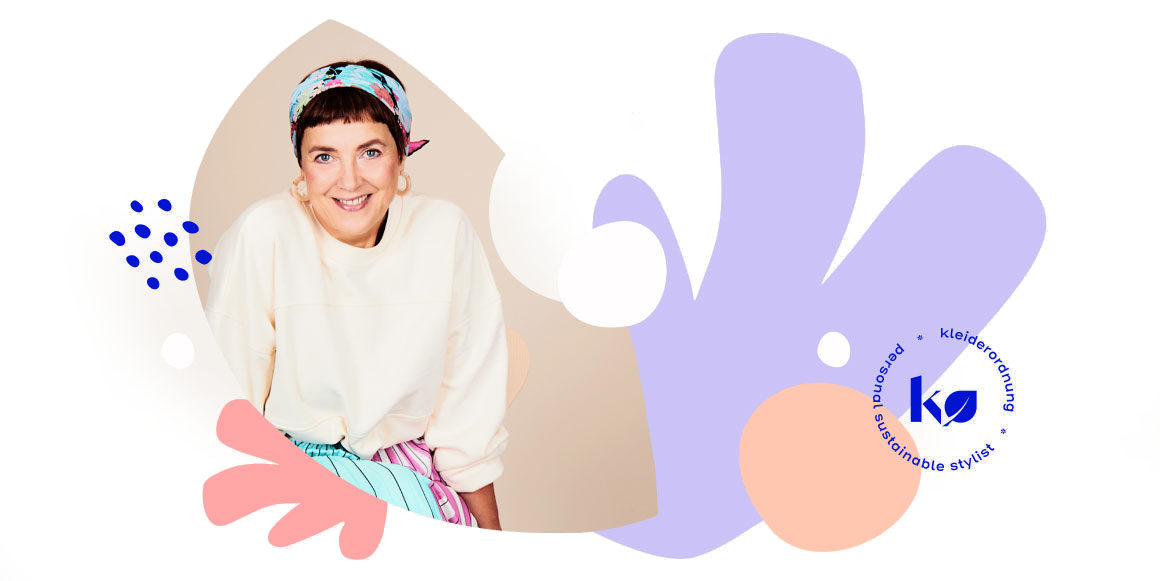
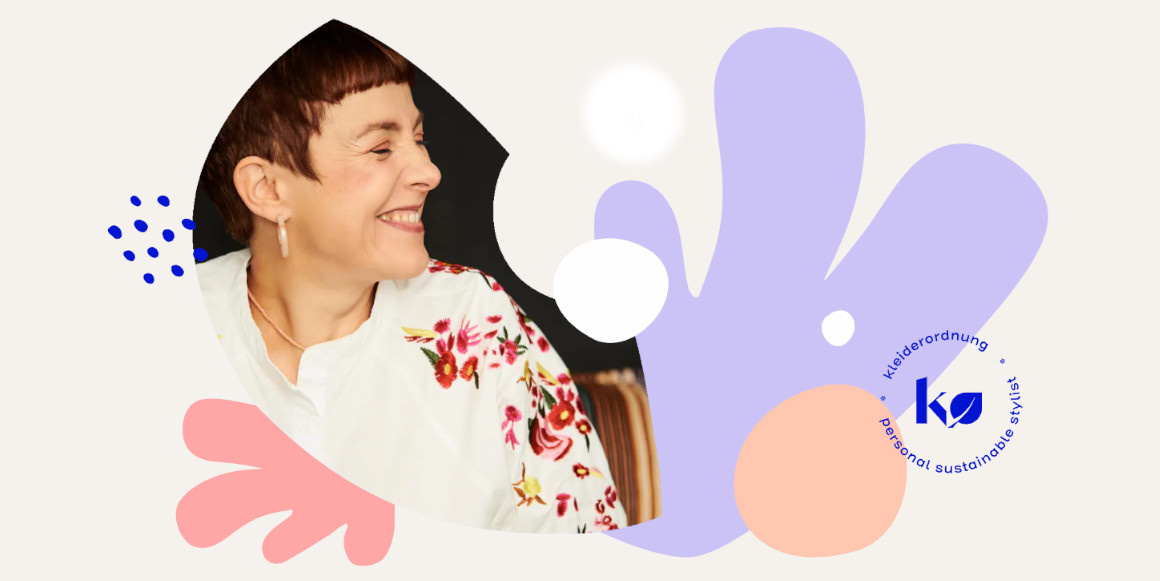
new key visual image

diff --git a/src/style.css b/src/style.css
@@ -4,7 +4,7 @@
  Description:  WordPress Classic Theme for Kleiderordnung.Berlin by Ingo Steinke (web development), Ina Nixdorf (web design), Tina Steinke (requirements)
  Author:       openmindculture
  Author URI:   https://www.ingo-steinke.com/
- Version:      4.9.3
+ Version:      4.9.4
  Tested up to: 7.1
  Requires PHP: 8.0
  License:      proprietary

diff --git a/src/inc/structure/intro.php b/src/inc/structure/intro.php
@@ -24,7 +24,6 @@
       <img
         class="no-print"
         src="<?php echo get_template_directory_uri() ?>/img/keyvisual-kleiderordnung.jpg" width="1160" height="581"
-        srcset="<?php echo get_template_directory_uri() ?>/img/keyvisual-kleiderordnung.jpg 1x, <?php echo get_template_directory_uri() ?>/img/keyvisual-kleiderordnung@2x.jpg 2x"
         loading="lazy"
         alt="<?php _e( 'Portrait von Tina Steinke', 'kleiderordnung' ) ?>"
       >
